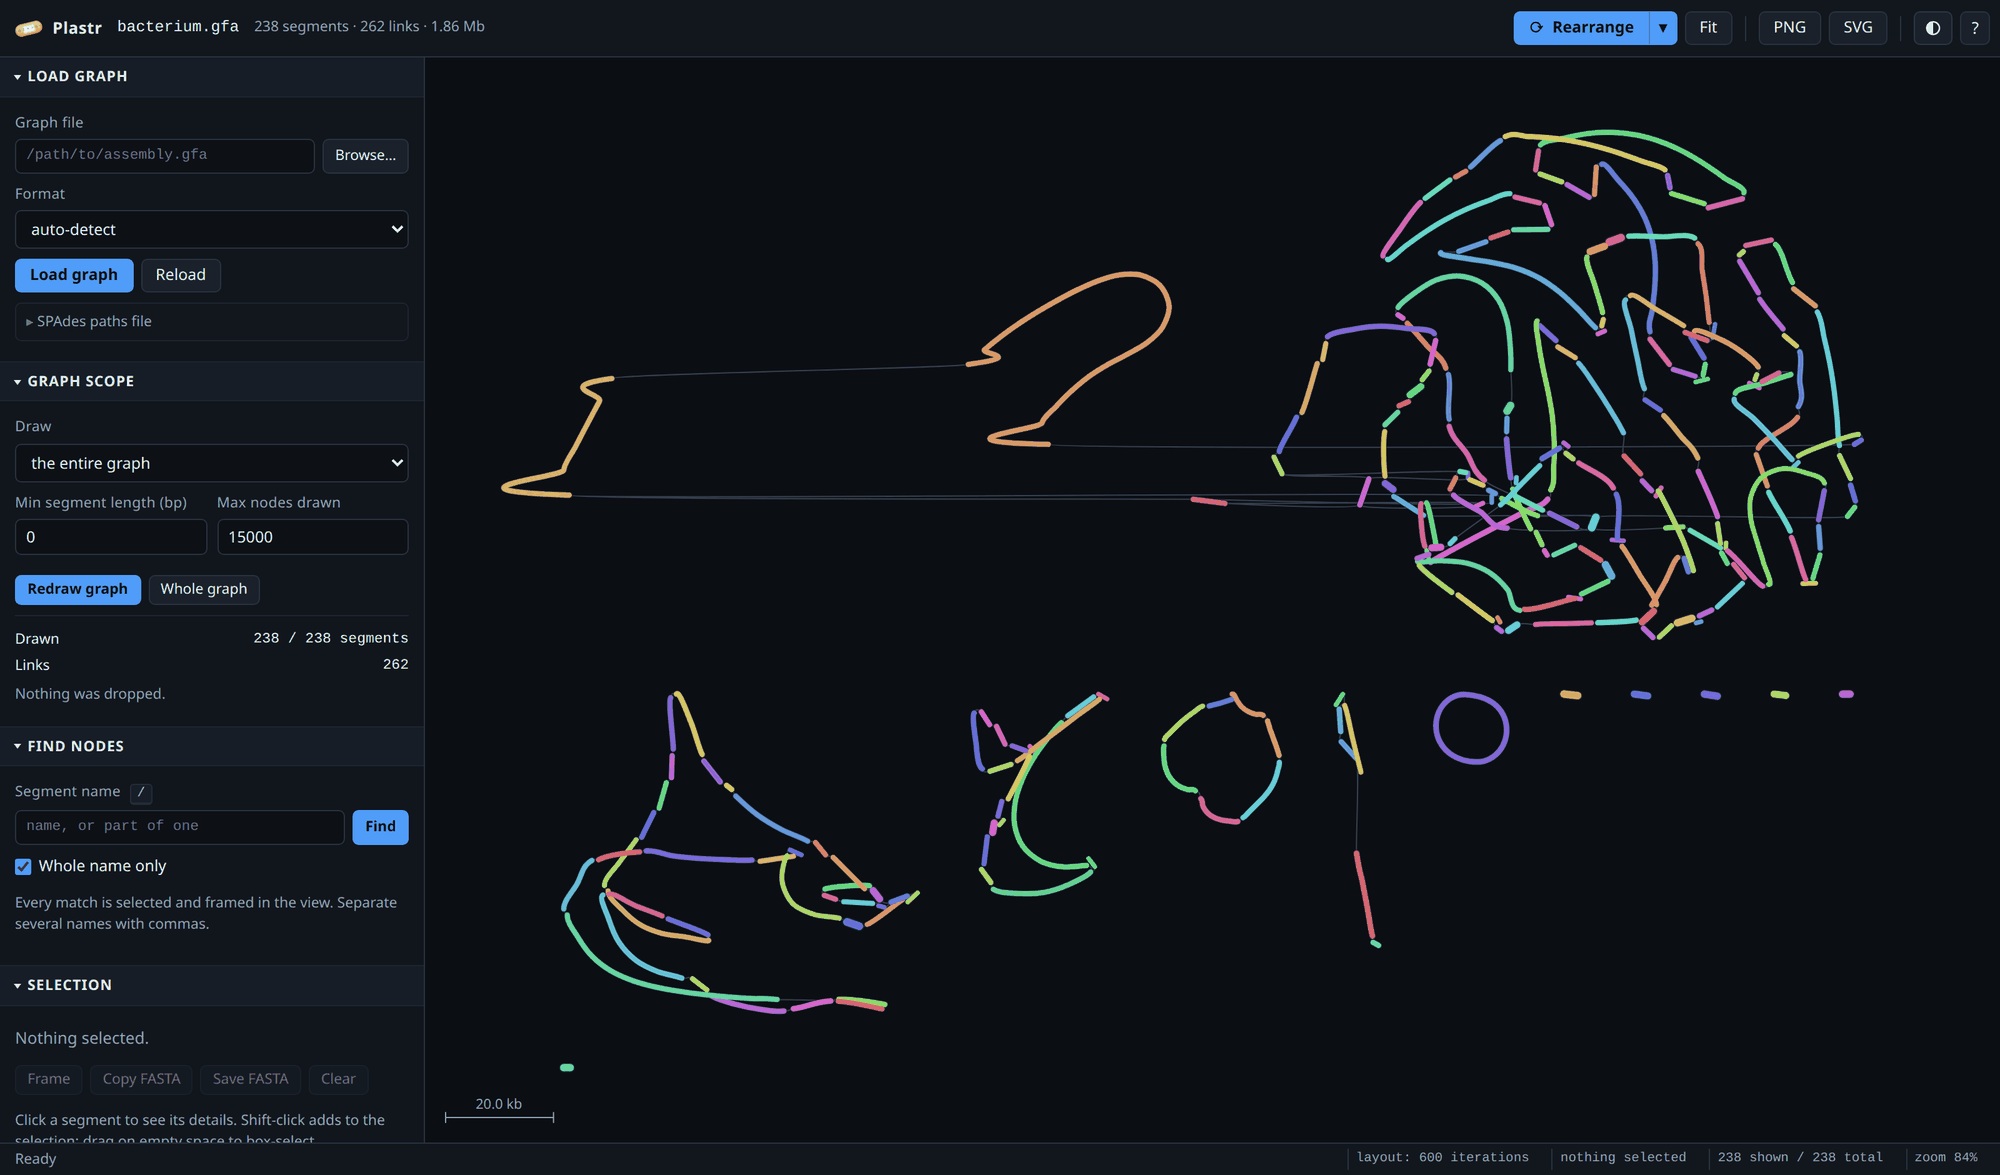
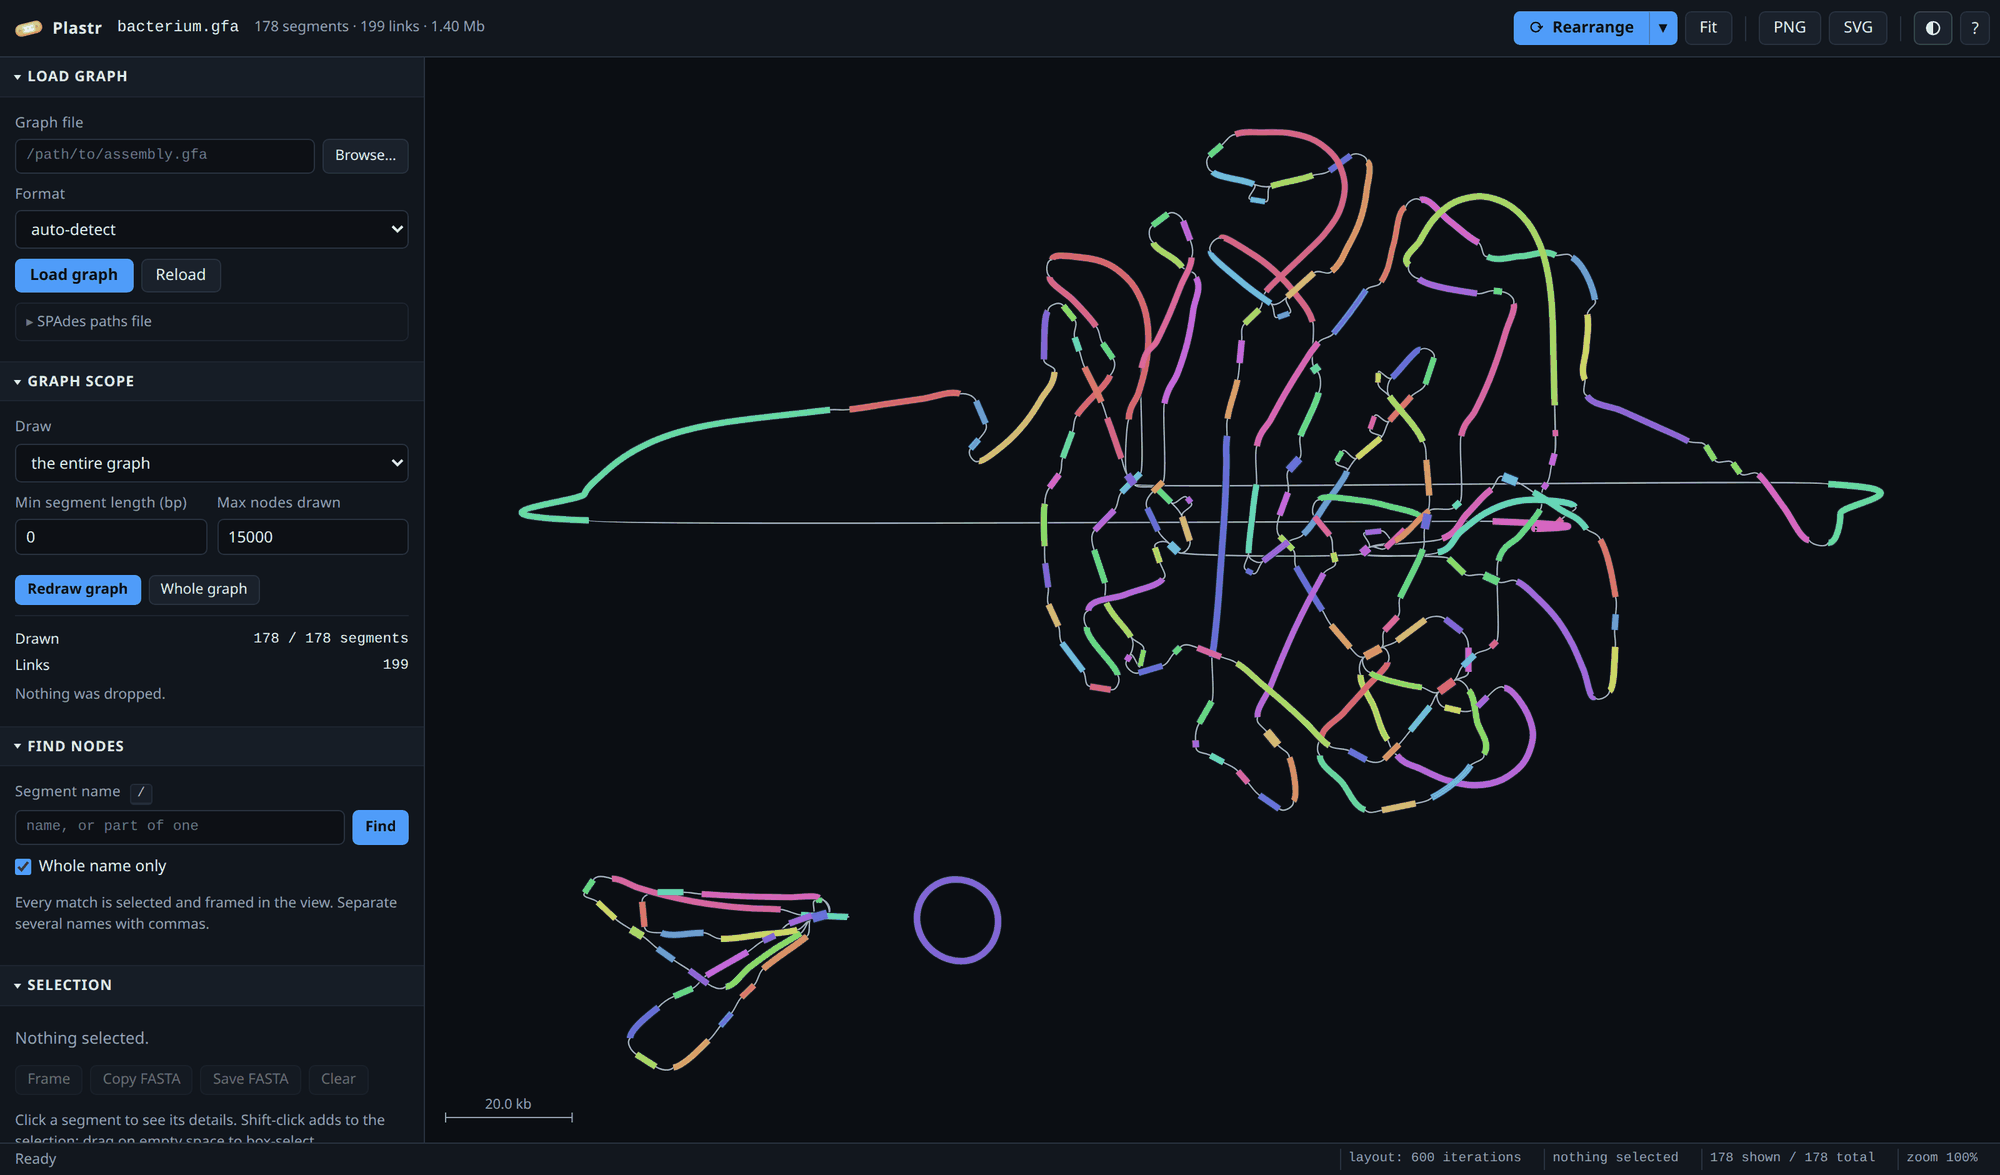
Draw contigs as blocks on visible edges, not ribbons on hairlines
Comparing against real graph-viewer output rather than against my own idea of
it, the drawing had the emphasis backwards. A graph picture is coloured contig
blocks strung along dark curved connectors, and the connectors are a first-class
part of it -- often as long as the shorter contigs and clearly visible. Plastr
drew long ribbons joined by faint hairlines that thinned to nothing as you
zoomed in, which is why the result read as a tangle of bars rather than as a
graph.

Edges now scale with the view like contigs do, instead of being capped at three
pixels, and are drawn in a colour that carries on both themes -- near black on
white, light grey on the dark canvas, where the old muted slate vanished. Their
rest length went from a quarter of a polyline step to six tenths, so a
connector is something you can see and follow. Contig ends are flat rather than
rounded, which is what makes a contig read as a block with a beginning and an
end.

The demo data was also misrepresenting what an assembly is. It had grown to six
replicons including two finished circular ones, which reads as several genomes
in one file rather than as a single isolate; it is now one chromosome still in
pieces, one draft plasmid, and one small plasmid that closed. Two real bugs in
the generator came out of looking at that: repeats were written whether or not
the walk ever visited them, so unused ones appeared as unlinked contigs that
[…]

diff --git a/src/plastr/web/js/render.js b/src/plastr/web/js/render.js
@@ -79,6 +79,13 @@ const EDGE_EXTENSION_WORLD = 5;
  */
 const SPLINE_TENSION = 0.155;
 
+/**
+ * Edge width in world units, so it scales with the drawing like a contig does.
+ * A contig at mean depth is five units wide, so an edge is a little under a
+ * third of that -- clearly a connector, never mistakable for a contig.
+ */
+const EDGE_WIDTH_WORLD = 1.5;
+
 /** Widest a node body should get, in CSS pixels, when a fit zooms in. */
 const MAX_NODE_BODY_PX = 44;
 
@@ -1130,8 +1137,13 @@ export class Renderer {
    * zoom into a tangle.
    */
   _linkWidth(scale) {
-    const w = Number(this.opts.edgeWidth) > 0 ? Number(this.opts.edgeWidth) : 1.1;
-    return Math.max(0.5, Math.min(3, w * Math.sqrt(scale)));
+    // Edges are a first-class part of the picture, not a hint that two contigs
+    // are related: they are what the eye follows from one contig to the next,
+    // so they scale with the view like the contigs do rather than being pinned
+    // to a hairline. The old cap of 3 px meant that at any zoom past the first
+    // the edges thinned away to nothing while the contigs grew.
+    const w = Number(this.opts.edgeWidth) > 0 ? Number(this.opts.edgeWidth) : EDGE_WIDTH_WORLD;
+    return Math.max(0.8, Math.min(14, w * scale));
   }
 
   /**
@@ -1643,7 +1655,8 @@ export class Renderer {
     /* ---- links ---- */
     if (this.opts.showLinks && scene.vlinks.length) {
       ctx.strokeStyle = th.link;
-      ctx.globalAlpha = 0.55;
+      ctx.lineCap = 'round';
+      ctx.lineJoin = 'round';
       ctx.lineWidth = this._linkWidth(scale);
       ctx.beginPath();
       for (const li of scene.vlinks) {
@@ -1651,7 +1664,6 @@ export class Renderer {
         this._linkPath(ctx, g.links[li], scale);
       }
       ctx.stroke();
-      ctx.globalAlpha = 1;
       this._paintLinkAccents(ctx, scene, scale, o.interactive !== false);
     }
 
@@ -1681,7 +1693,7 @@ export class Renderer {
     }
     // Bandage strokes the node body with a flat cap and then cuts the
     // arrowhead out of it, so an arrowed node is still one solid shape.
-    ctx.lineCap = arrows ? 'butt' : 'round';
+    ctx.lineCap = 'butt';
     ctx.lineJoin = 'round';
 
     // Two passes per width bucket: a dark outline, then the coloured body on
@@ -1736,7 +1748,7 @@ export class Renderer {
 
     /* ---- selected nodes, raised to the front ---- */
     if (this.selected.size) {
-      ctx.lineCap = arrows ? 'butt' : 'round';
+      ctx.lineCap = 'butt';
       ctx.lineJoin = 'round';
       const sel = [];
       for (const si of scene.vis) if (this.selected.has(si)) sel.push(si);
@@ -1821,7 +1833,7 @@ export class Renderer {
         ctx.strokeStyle = p.colour;
         // A span that claims the whole node has to claim its end caps too, or
         // the body colour underneath shows as a nub past either end.
-        ctx.lineCap = !tip && p.s <= 1e-9 && p.e >= 1 - 1e-9 ? 'round' : 'butt';
+        ctx.lineCap = 'butt';
         if (p.s < cut) {
           ctx.beginPath();
           if (this._partialPath(ctx, si, p.s, Math.min(p.e, cut))) ctx.stroke();
@@ -1834,7 +1846,7 @@ export class Renderer {
         }
       }
     }
-    ctx.lineCap = arrows ? 'butt' : 'round';
+    ctx.lineCap = 'butt';
   }
 
   /**
@@ -1864,7 +1876,7 @@ export class Renderer {
       if (this._partialPath(ctx, si, run[0], run[1])) ctx.stroke();
     }
     ctx.globalAlpha = 1;
-    ctx.lineCap = arrows ? 'butt' : 'round';
+    ctx.lineCap = 'butt';
   }
 
   /**
@@ -2300,7 +2312,7 @@ export class Renderer {
           ? `L${num(q.bx)} ${num(q.by)}`
           : `C${num(q.c1x)} ${num(q.c1y)} ${num(q.c2x)} ${num(q.c2y)} ${num(q.bx)} ${num(q.by)}`));
       }
-      parts.push(`<path d="${d.join('')}" fill="none" stroke="${esc(th.link)}" stroke-width="${num(lw)}" stroke-opacity="0.55"/>`);
+      parts.push(`<path d="${d.join('')}" fill="none" stroke="${esc(th.link)}" stroke-width="${num(lw)}" stroke-linecap="round"/>`);
     }
 
     // links that belong to a path or the selection are drawn over the rest

diff --git a/src/plastr/web/css/app.css b/src/plastr/web/css/app.css
@@ -28,7 +28,11 @@
   --canvas-grid:  #161c25;
   --node-default: #7f8ea3;
   --link:         #43506333;
-  --link-strong:  #5c6b82;
+  /* Edges carry the eye from one contig to the next, so they have to be as
+     legible as the contigs are. Against a near-black canvas that means a light
+     grey, not the muted slate this used to be, which disappeared at any zoom
+     where the contigs were still clear. */
+  --link-strong:  #aab6c6;
   --sel:          #ffd166;
   --hover:        #ffffff;
   --node-outline: rgba(28,36,48,0.85);
@@ -90,7 +94,7 @@
   --canvas-grid:  #e6ebf2;
   --node-default: #5b6577;
   --link:         #9aa7b933;
-  --link-strong:  #4a5566;
+  --link-strong:  #2b323d;
   --node-outline: rgba(10,16,24,0.88);
   --sel:          #d98800;
   --hover:        #000000;

diff --git a/src/plastr/web/js/layout.js b/src/plastr/web/js/layout.js
@@ -238,7 +238,7 @@ export const DEFAULT_PARAMS = Object.freeze({
   // contigs sit end to end. An absolute value cannot work: once the drawn scale
   // is calibrated per graph, a fixed 24 units is longer than an entire contig
   // on a large assembly, and the drawing becomes dots joined by long leaders.
-  linkRestFrac: 0.25,
+  linkRestFrac: 0.6,
   // Keeps a long contig reading as a smooth sweep rather than a squiggle.
   bendStrength: 0.90,
   // How firmly a closed molecule is held to a circle. Strong enough to survive

diff --git a/examples/make_demo_data.py b/examples/make_demo_data.py
@@ -77,7 +77,7 @@ def write_bacterium(outdir: str) -> tuple[str, int, int]:
         ]
 
     repeats_by_component = [make_repeats(n, tag) for n, tag in
-                            ((16, "c"), (3, "p1"), (1, "p2"), (0, "p3"))]
+                            ((16, "c"), (2, "p1"))]
 
     segments: list[tuple[str, str, float]] = []
     links: list[tuple[str, str, str, str]] = []
@@ -90,19 +90,32 @@ def write_bacterium(outdir: str) -> tuple[str, int, int]:
             segments.append((name, seq, round(depth, 2)))
         return name
 
-    for group in repeats_by_component:
-        for name, seq, mult in group:
-            emit(name, seq, background * mult)
-
     counter = 0
     # (segments in the walk, closes into a circle) -- a chromosome and three
     # plasmids, which is what a finished bacterial assembly usually looks like.
-    for comp, (count, circular) in enumerate([(150, True), (34, True), (14, True), (5, False)]):
+    # One strain: a chromosome still in pieces, and one plasmid, also in
+    # pieces. Draft assemblies look like this. Piling on more replicons made the
+    # picture read as several genomes in one file, which is not what a single
+    # isolate looks like and is misleading about what the tool is showing.
+    for comp, (count, circular) in enumerate([(150, True), (26, True)]):
         repeats = repeats_by_component[comp]
         first = previous = None
         for _ in range(count):
             if repeats and rng.random() < 0.14:
-                node = rng.choice(repeats)[0]
+                # Emitted on first use, not up front: a repeat the walk never
+                # visits would otherwise be written as an unlinked contig, and
+                # a scatter of those reads as unplaced junk the assembly does
+                # not actually contain.
+                #
+                # Never the same repeat twice running. The link would be a self
+                # link, which is the graph's way of saying "this closes", and
+                # skipping it instead breaks the walk in two -- a replicon that
+                # quietly becomes two components and reads as a second genome.
+                choices = [r for r in repeats if r[0] != previous]
+                if not choices:
+                    continue
+                name, seq, mult = rng.choice(choices)
+                node = emit(name, seq, background * mult)
             else:
                 counter += 1
                 # Log-normal lengths: a few long contigs carrying most of the
@@ -132,22 +145,13 @@ def write_bacterium(outdir: str) -> tuple[str, int, int]:
         if circular and first is not None and previous is not None and previous != first:
             links.append((previous, "+", first, "+"))
 
-    # Two finished replicons, to show what a closed molecule looks like next to
-    # a draft one. A complete circular plasmid assembles into a single contig
-    # whose two ends join -- a self-link in GFA -- and that is the commonest
-    # circular molecule anyone opens a graph viewer to confirm.
+    # One finished replicon. A complete circular plasmid assembles into a single
+    # contig whose two ends join -- a self-link in GFA -- and confirming that is
+    # most of why anyone opens a graph viewer. Exactly one: piling on more
+    # closed molecules made the picture read as several genomes in one file,
+    # which is not what a single isolate looks like.
     closed = emit("plasmid_closed", random_seq(rng, 41_000), background * 1.15)
     links.append((closed, "+", closed, "+"))
-
-    # And one assembled as a clean cycle of several contigs, with nothing else
-    # attached: the other shape circularity comes in.
-    ring = []
-    for i in range(7):
-        counter += 1
-        ring.append(emit(f"ring_{i + 1}", random_seq(rng, rng.randint(3_000, 14_000)),
-                         rng.gauss(background, 2.0)))
-    for i, node in enumerate(ring):
-        links.append((node, "+", ring[(i + 1) % len(ring)], "+"))
 
     path = os.path.join(outdir, "bacterium.gfa")
     lines = ["H\tVN:Z:1.0"]

diff --git a/README.md b/README.md
@@ -88,7 +88,7 @@ without it. The demo builds two datasets in `examples/demo/`:
 | File | What it is |
 |---|---|
 | `assembly.gfa` + `reference.fasta` | Ten contigs with **known** errors planted in them — one inversion, one relocation, one translocation, one contig with no reference match. Use this to check that the numbers are right. |
-| `bacterium.gfa` | 238 segments, 1.86 Mb: a chromosome plus plasmids, with collapsed repeats and bubbles, and two finished circular replicons among them. Nothing planted — this one is for looking at. |
+| `bacterium.gfa` | 178 segments, 1.40 Mb: one strain — a chromosome still in pieces, a draft plasmid, and one small plasmid that closed into a single circular contig. Collapsed repeats and bubbles where an assembler leaves them. Nothing planted; this one is for looking at. |
 
 **2. Open the graph.**
 
